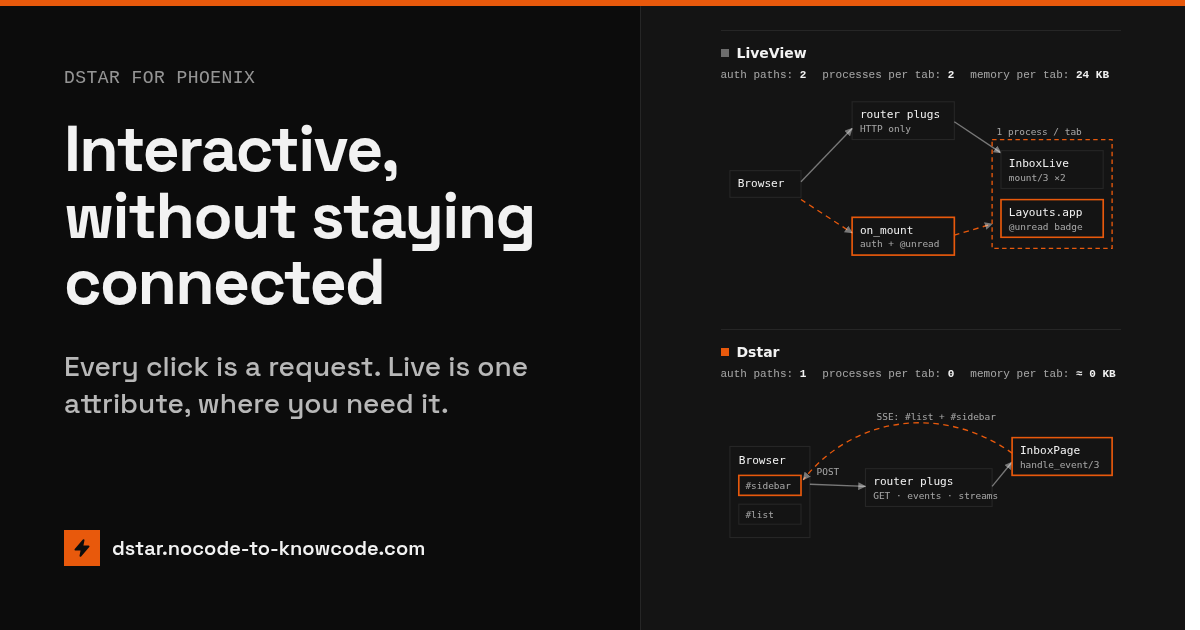
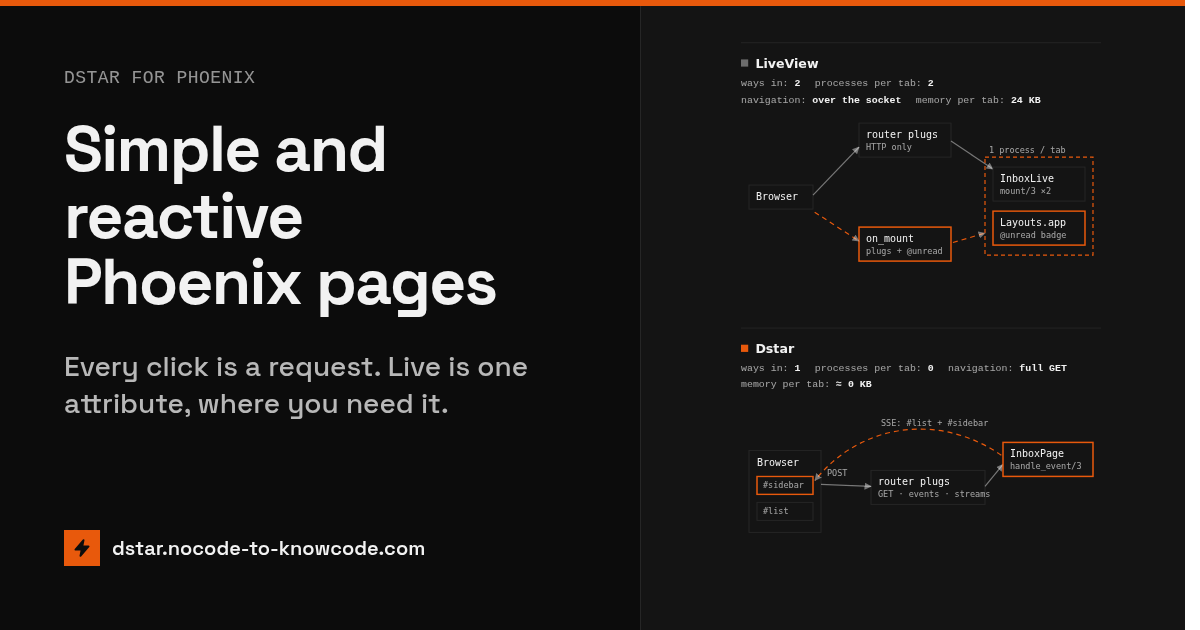
Lead with simple and reactive: home headline, README, social card (#16)

diff --git a/README.md b/README.md
@@ -1,4 +1,24 @@
-# DstarDemo
+# Dstar demo
+
+Simple and reactive Phoenix pages.
+
+[Dstar](https://hexdocs.pm/dstar) renders Phoenix pages over
+[Datastar](https://data-star.dev). A click is an ordinary request: it goes
+through your router, runs a handler, and comes back as HTML patches for
+whatever changed. Nothing stays open between clicks. When a page needs live
+updates, one attribute opens a stream.
+
+This repo is the site at https://dstar.nocode-to-knowcode.com:
+
+- `/`: an inbox built with LiveView 1.8 and with Dstar, arrow by arrow
+- `/explained/lab`: the same inbox in six tabs, to break on purpose
+- `/showcase`: small examples of each Dstar feature
+- `bench/`: a reproducible LiveView vs Dstar benchmark
+
+Library: [github.com/ricotrevisan/dstar](https://github.com/ricotrevisan/dstar).
+Found a rough edge? [Open an issue](https://github.com/ricotrevisan/dstar-demo/issues).
+
+## Run it
 
 To start your Phoenix server:
 
@@ -24,11 +44,3 @@ in the log until it comes back. `mix test` does need it, since the suite runs
 inside `Ecto.Adapters.SQL.Sandbox`.
 
 Ready to run in production? Please [check our deployment guides](https://hexdocs.pm/phoenix/deployment.html).
-
-## Learn more
-
-* Official website: https://www.phoenixframework.org/
-* Guides: https://hexdocs.pm/phoenix/overview.html
-* Docs: https://hexdocs.pm/phoenix
-* Forum: https://elixirforum.com/c/phoenix-forum
-* Source: https://github.com/phoenixframework/phoenix
